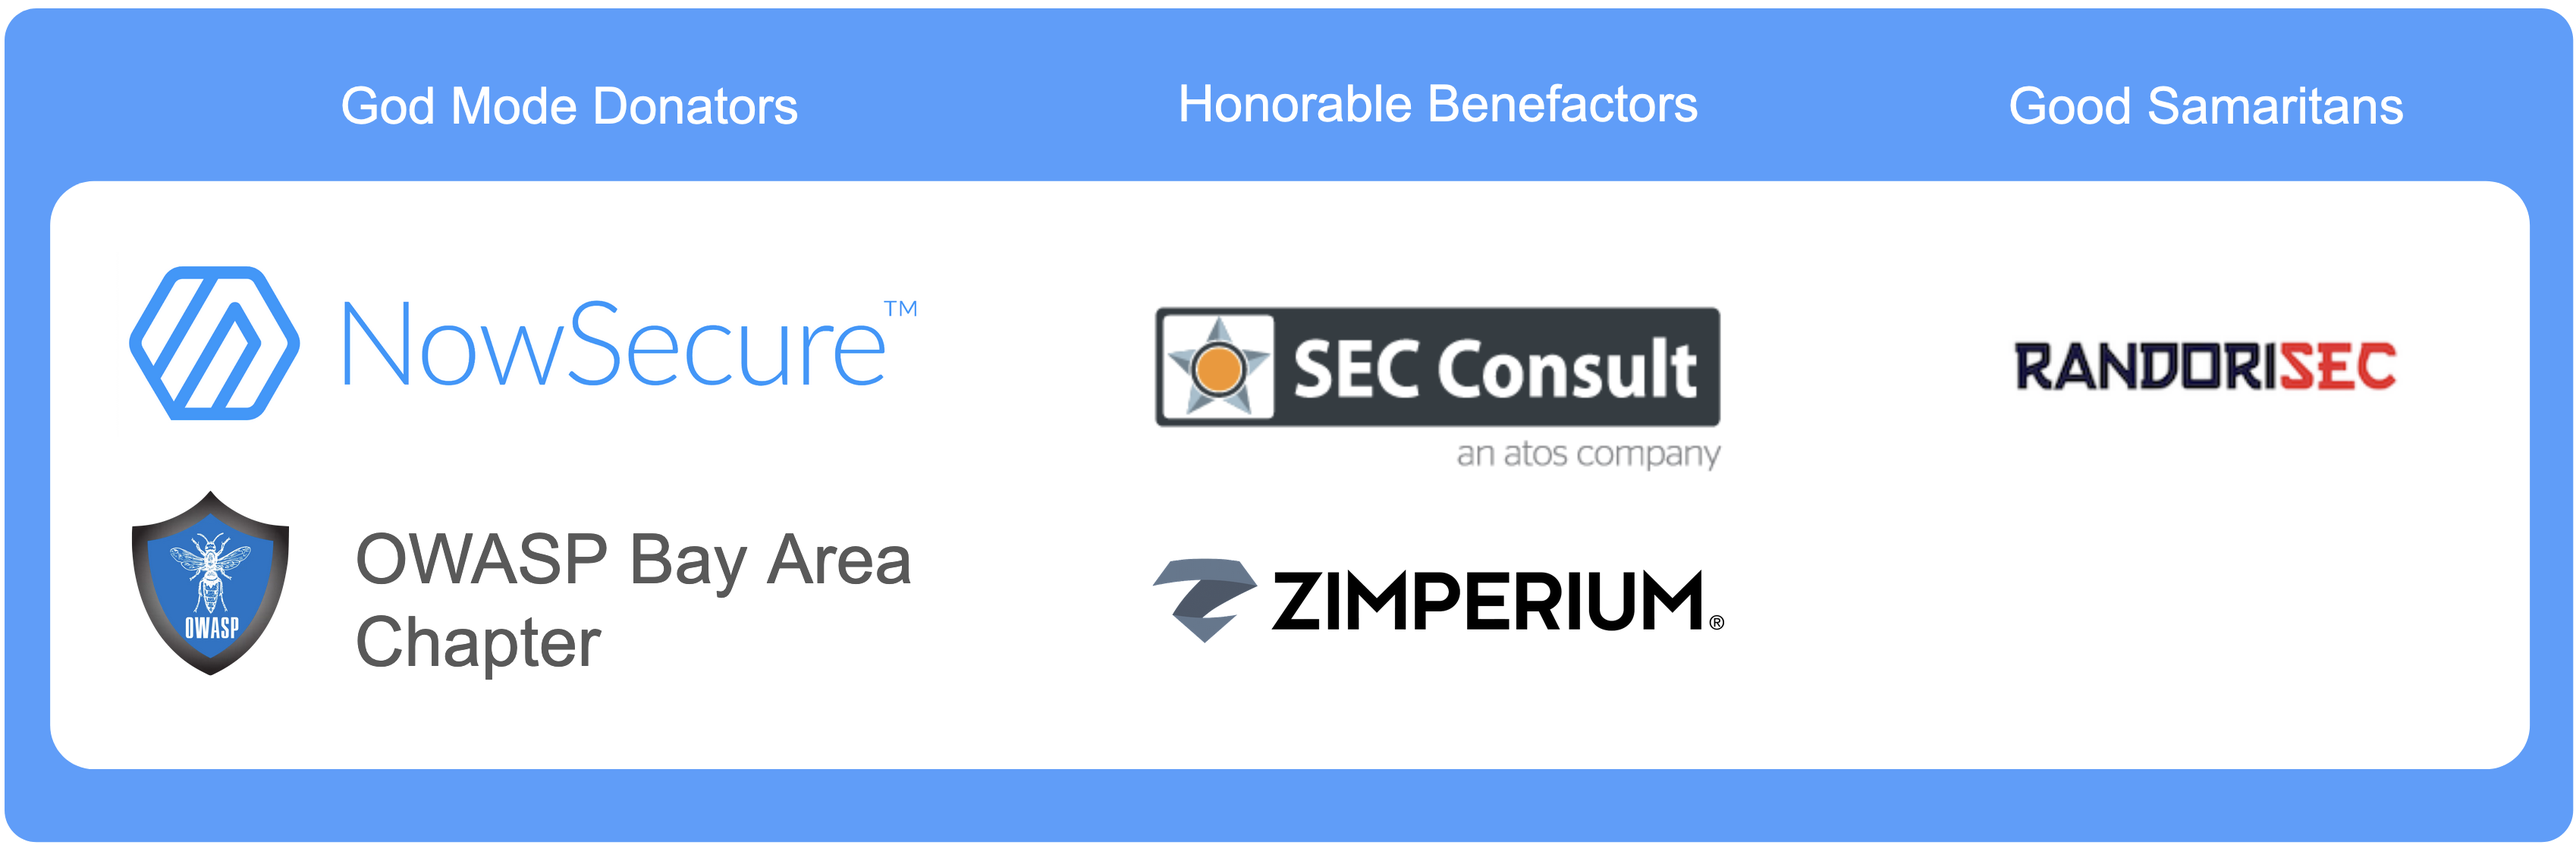
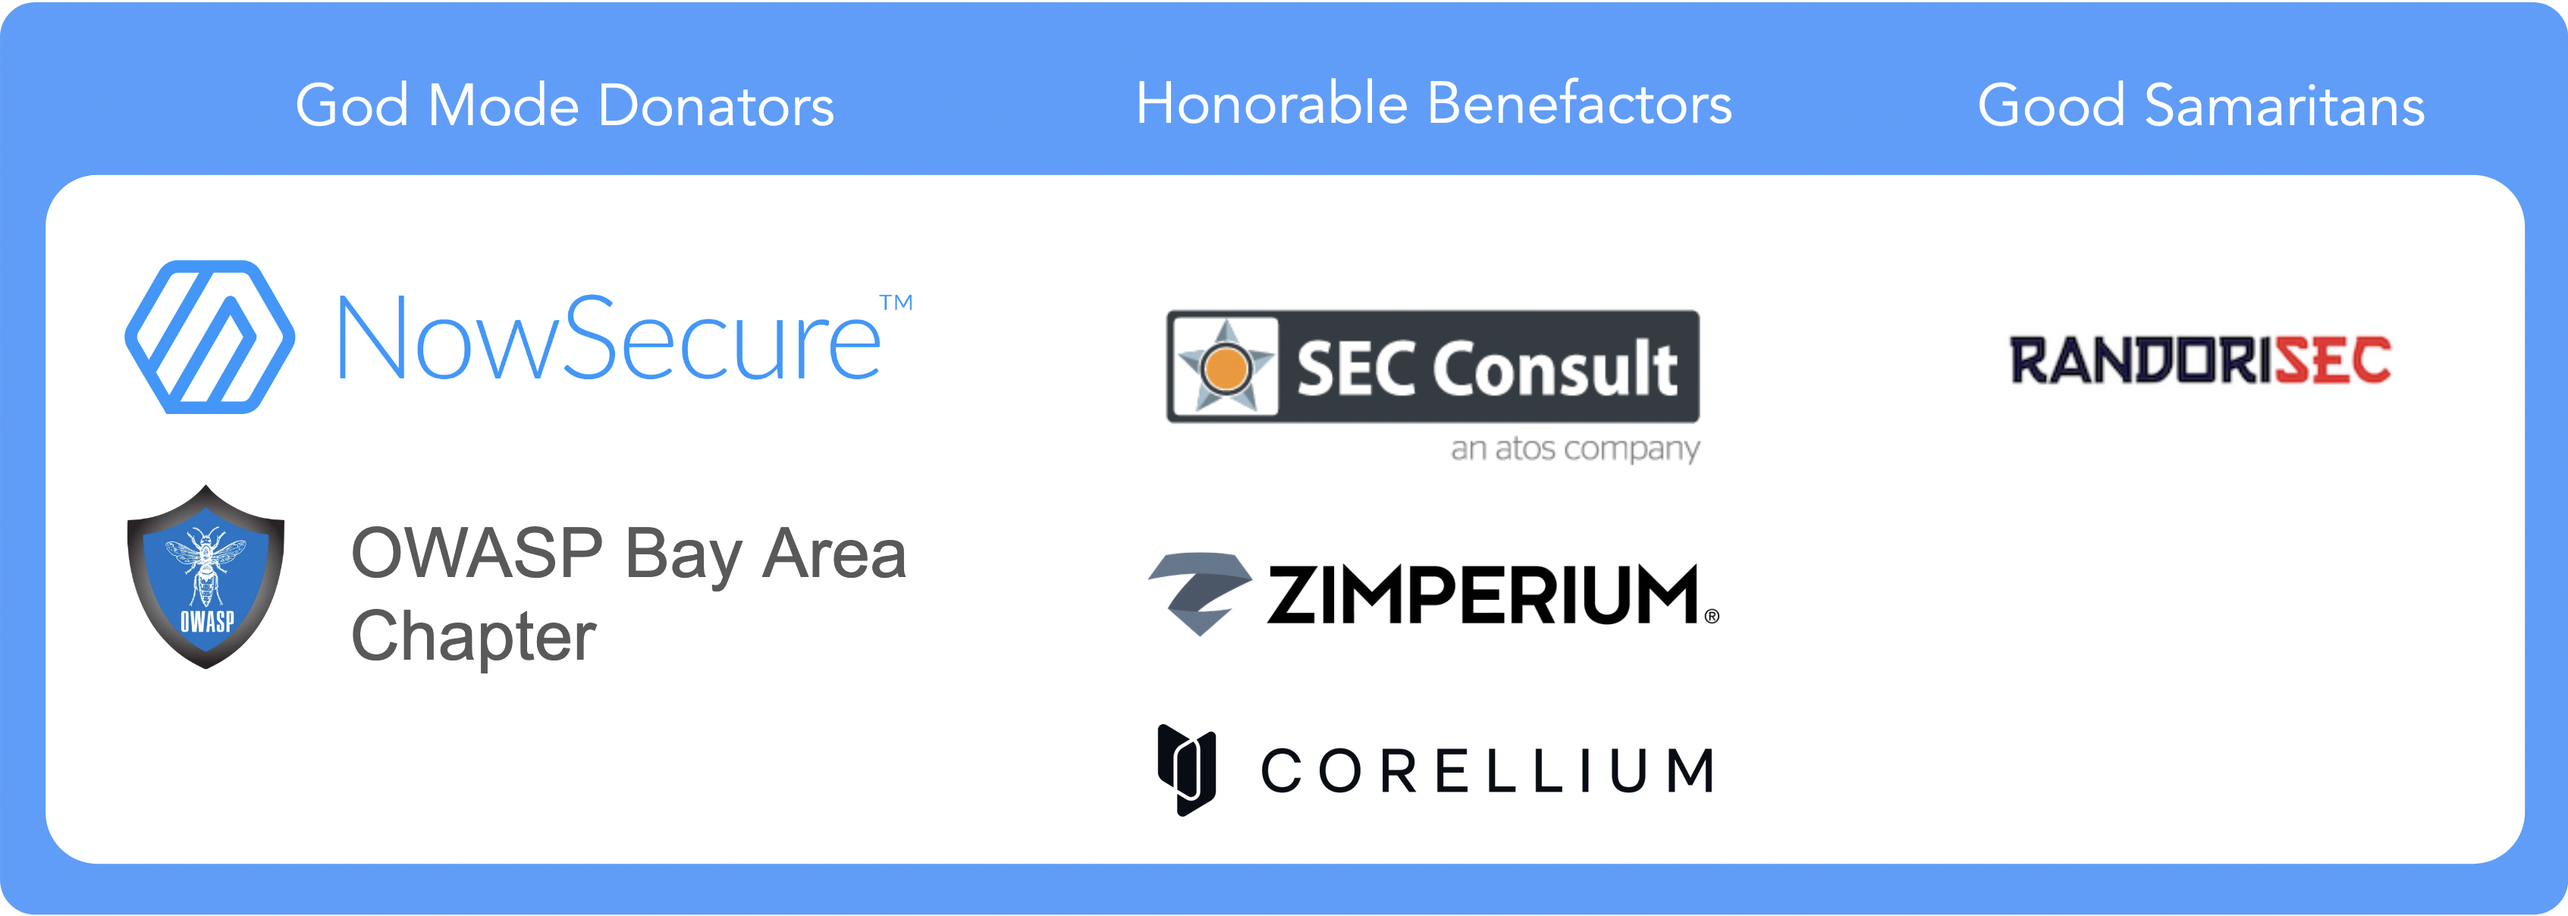
add corellium

diff --git a/Document/0x02c-Acknowledgements.md b/Document/0x02c-Acknowledgements.md
@@ -165,6 +165,6 @@ Reviewers have consistently provided useful feedback through GitHub issues and p
 
 ### Donators
 
-While both the MASVS and the MSTG are created and maintained by the community on a voluntary basis, sometimes a little bit of outside help is required. We therefore thank our donators for providing the funds to be able to hire technical editors. Note that their donation does not influence the content of the MASVS or MSTG in any way. The Donation Packages are described on the [OWASP Project Wiki](https://owasp.org/www-project-mobile-security-testing-guide/#donation-packagess "OWASP Mobile Security Testing Guide Donation Packages").
+While both the MASVS and the MSTG are created and maintained by the community on a voluntary basis, sometimes a little bit of outside help is required. We therefore thank our donators for providing the funds to be able to hire technical editors. Note that their donation does not influence the content of the MASVS or MSTG in any way. The Donation Packages are described on our [OWASP Project page](https://owasp.org/www-project-mobile-security-testing-guide/#div-donate "OWASP Mobile Security Testing Guide Donation Packages").
 
 <img src="Images/Donators/donators.png"/>
